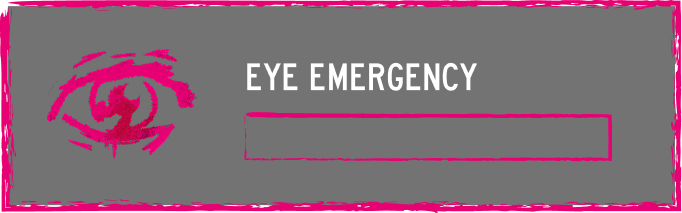
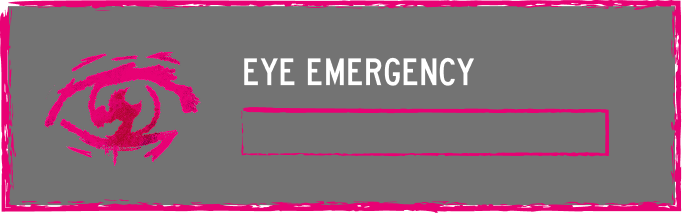
changed assets to line up

diff --git a/public/modules/ui.js b/public/modules/ui.js
@@ -36,8 +36,8 @@ window.drawStations = function ({
   const space = 11;
   const daisyMult = 2;
 
-  const barX = 325;
-  const barY = 43;
+  const barX = 324;
+  const barY = 41;
   const barW = 135;
   const barH = 16;
 
